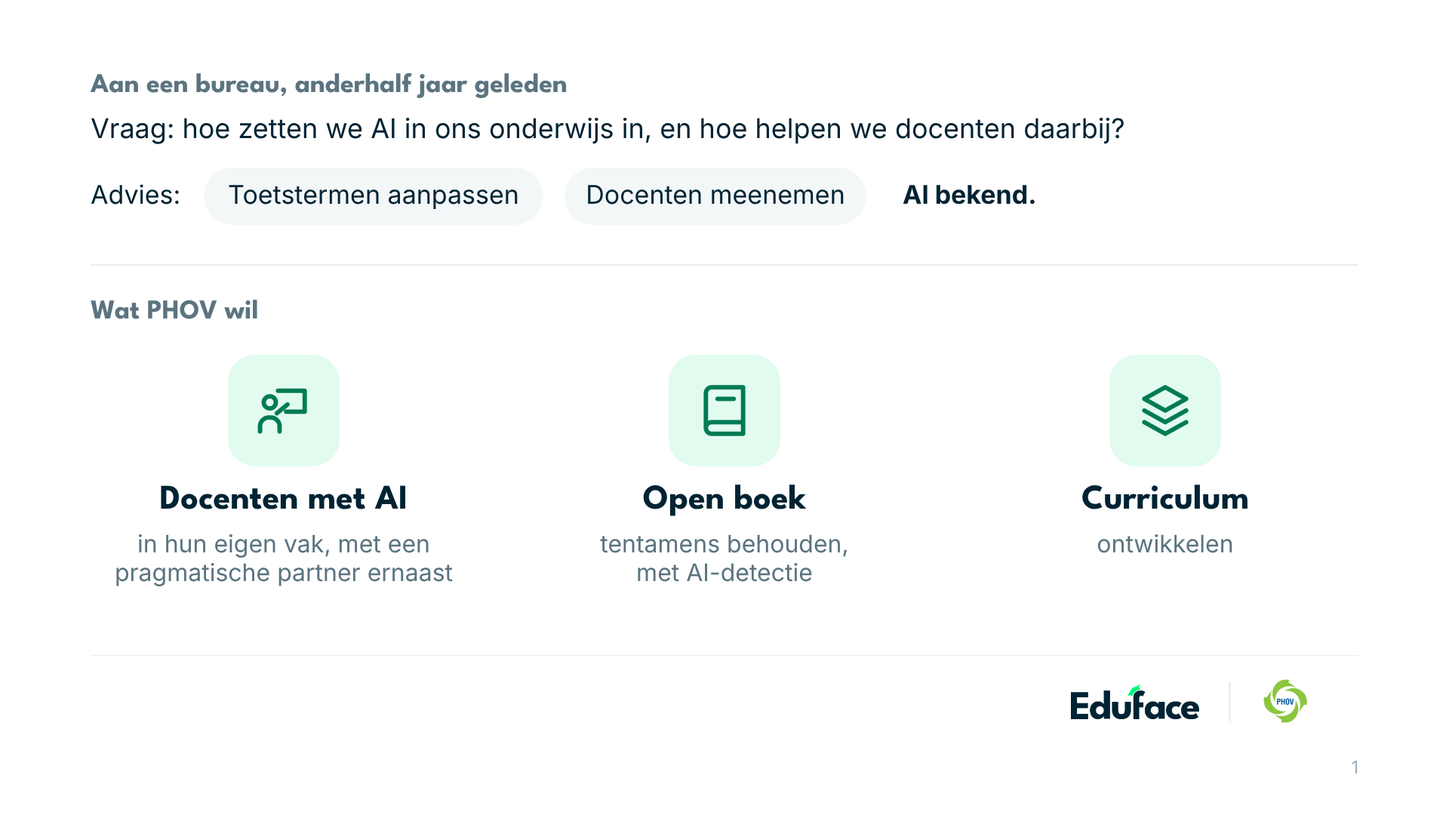
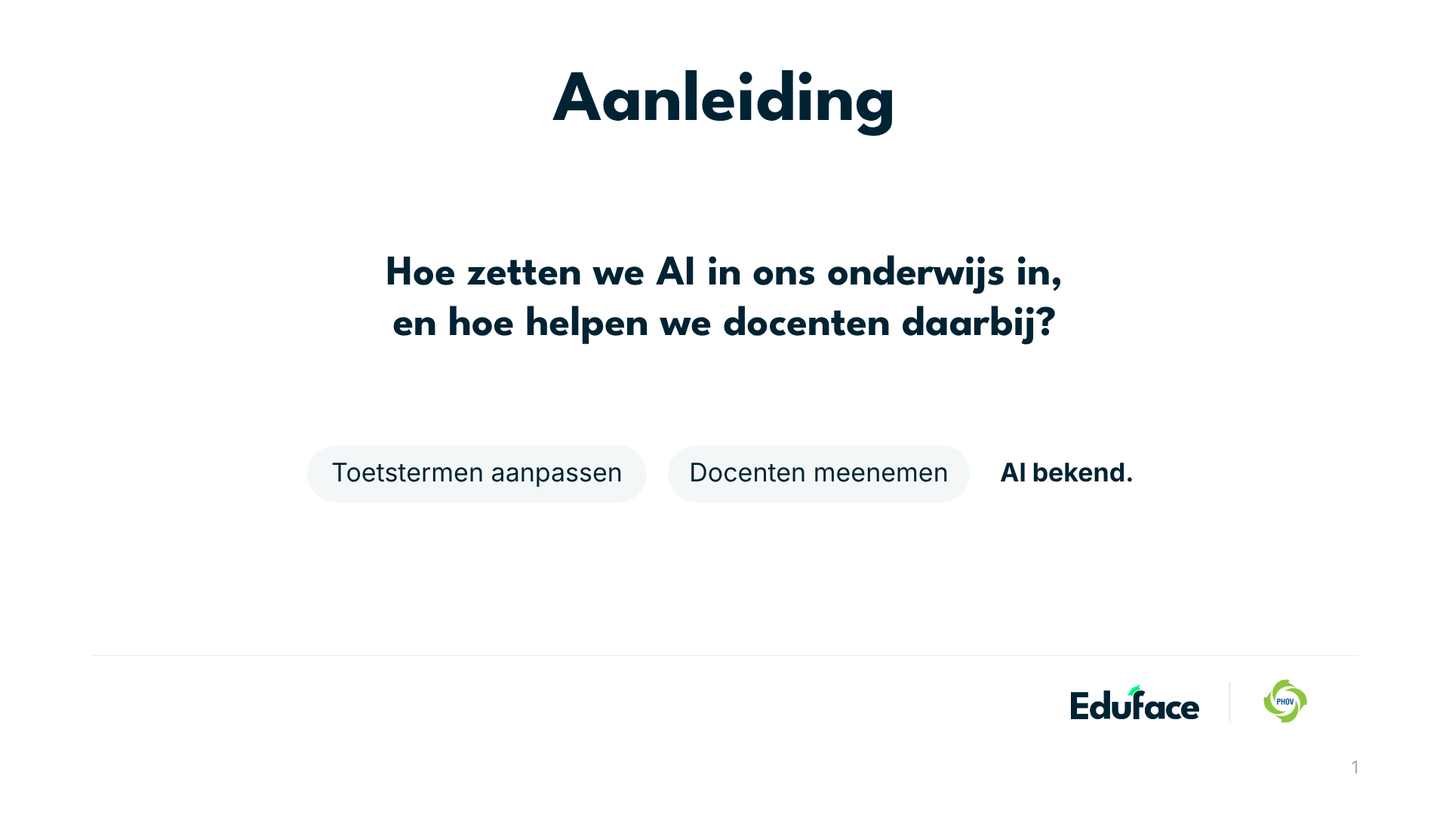
PHOV-deck: aanleiding en doel als twee slides, titels terug, minder tekst
Claude-Session: https://claude.ai/code/session_011t24oQakExxjssoBJFRTe8

diff --git a/GTM/Accounts/phov/deck/preview/03-nu.html b/GTM/Accounts/phov/deck/preview/03-nu.html
@@ -1,0 +1,1 @@
+<!DOCTYPE html><html lang="nl"><head><meta charset="utf-8"><link href="https://fonts.googleapis.com/css2?family=League+Spartan:wght@400;600;700;800&family=Inter:wght@400;500;600;700&display=swap" rel="stylesheet"><style>*{margin:0;padding:0;box-sizing:border-box}html,body{background:#fff}.slide{position:relative;width:1920px;height:1080px;overflow:hidden;background:#fff}</style></head><body><div class="slide"><div style="position:absolute;left:120.0px;top:88.0px;width:1680.0px;height:120.0px;font-family:'League Spartan',sans-serif;font-size:96px;font-weight:700;color:#002333;text-align:center;line-height:1.0;white-space:pre-line">Huidige situatie</div><div style="position:absolute;left:120.0px;top:236.0px;width:600.0px;height:40.0px;font-family:'League Spartan',sans-serif;font-size:36px;font-weight:700;color:#5B7480;text-align:left;line-height:1.0;white-space:pre-line">Tentamens</div><div style="position:absolute;left:230.0px;top:340.0px;width:876.0px;height:4.0px;background:#E7EEF0;border-radius:0.0px"></div><div style="position:absolute;left:160.0px;top:288.0px;width:140.0px;height:108.0px;background:#FFFFFF;border-radius:0.0px"></div><div style="position:absolute;left:182.0px;top:294.0px;width:96.0px;height:96.0px;background:#F3F7F8;border-radius:23.3px"></div><img src="../assets/icon-pen-navy.png" style="position:absolute;left:206.0px;top:318.0px;width:48.0px;height:48.0px;object-fit:contain"><div style="position:absolute;left:84.0px;top:404.0px;width:292.0px;height:40.0px;font-family:'League Spartan',sans-serif;font-size:34px;font-weight:700;color:#002333;text-align:center;line-height:1.0;white-space:pre-line">Student</div><div style="position:absolute;left:60.0px;top:446.0px;width:340.0px;height:90.0px;font-family:'Inter',sans-serif;font-size:32px;font-weight:400;color:#5B7480;text-align:center;line-height:1.2;white-space:pre-line">maakt toets</div><div style="position:absolute;left:452.0px;top:288.0px;width:140.0px;height:108.0px;background:#FFFFFF;border-radius:0.0px"></div><div style="position:absolute;left:474.0px;top:294.0px;width:96.0px;height:96.0px;background:#F3F7F8;border-radius:23.3px"></div><img src="../assets/icon-cijfers-navy.png" style="position:absolute;left:498.0px;top:318.0px;width:48.0px;height:48.0px;object-fit:contain"><div style="position:absolute;left:376.0px;top:404.0px;width:292.0px;height:40.0px;font-family:'League Spartan',sans-serif;font-size:34px;font-weight:700;color:#002333;text-align:center;line-height:1.0;white-space:pre-line">Docent</div><div style="position:absolute;left:352.0px;top:446.0px;width:340.0px;height:90.0px;font-family:'Inter',sans-serif;font-size:32px;font-weight:400;color:#5B7480;text-align:center;line-height:1.2;white-space:pre-line">punten, feedback</div><div style="position:absolute;left:744.0px;top:288.0px;width:140.0px;height:108.0px;background:#FFFFFF;border-radius:0.0px"></div><div style="position:absolute;left:766.0px;top:294.0px;width:96.0px;height:96.0px;background:#F3F7F8;border-radius:23.3px"></div><img src="../assets/icon-usercheck-navy.png" style="position:absolute;left:790.0px;top:318.0px;width:48.0px;height:48.0px;object-fit:contain"><div style="position:absolute;left:668.0px;top:404.0px;width:292.0px;height:40.0px;font-family:'League Spartan',sans-serif;font-size:34px;font-weight:700;color:#002333;text-align:center;line-height:1.0;white-space:pre-line">Moduleleider</div><div style="position:absolute;left:644.0px;top:446.0px;width:340.0px;height:90.0px;font-family:'Inter',sans-serif;font-size:32px;font-weight:400;color:#5B7480;text-align:center;line-height:1.2;white-space:pre-line">stelt cijfer vast</div><div style="position:absolute;left:1036.0px;top:288.0px;width:140.0px;height:108.0px;background:#FFFFFF;border-radius:0.0px"></div><div style="position:absolute;left:1058.0px;top:294.0px;width:96.0px;height:96.0px;background:#F3F7F8;border-radius:23.3px"></div><img src="../assets/icon-data-navy.png" style="position:absolute;left:1082.0px;top:318.0px;width:48.0px;height:48.0px;object-fit:contain"><div style="position:absolute;left:960.0px;top:404.0px;width:292.0px;height:40.0px;font-family:'League Spartan',sans-serif;font-size:34px;font-weight:700;color:#002333;text-align:center;line-height:1.0;white-space:pre-line">Cursusbureau</div><div style="position:absolute;left:936.0px;top:446.0px;width:340.0px;height:90.0px;font-family:'Inter',sans-serif;font-size:32px;font-weight:400;color:#5B7480;text-align:center;line-height:1.2;white-space:pre-line">krijgt eindcijfer</div><div style="position:absolute;left:120.0px;top:570.0px;width:600.0px;height:40.0px;font-family:'League Spartan',sans-serif;font-size:36px;font-weight:700;color:#5B7480;text-align:left;line-height:1.0;white-space:pre-line">Schrijfopdrachten</div><div style="position:absolute;left:230.0px;top:674.0px;width:1460.0px;height:4.0px;background:#E7EEF0;border-radius:0.0px"></div><div style="position:absolute;left:160.0px;top:622.0px;width:140.0px;height:108.0px;background:#FFFFFF;border-radius:0.0px"></div><div style="position:absolute;left:182.0px;top:628.0px;width:96.0px;height:96.0px;background:#F3F7F8;border-radius:23.3px"></div><img src="../assets/icon-inleveren-navy.png" style="position:absolute;left:206.0px;top:652.0px;width:48.0px;height:48.0px;object-fit:contain"><div style="position:absolute;left:84.0px;top:738.0px;width:292.0px;height:40.0px;font-family:'League Spartan',sans-serif;font-size:34px;font-weight:700;color:#002333;text-align:center;line-height:1.0;white-space:pre-line">Student</div><div style="position:absolute;left:60.0px;top:780.0px;width:340.0px;height:90.0px;font-family:'Inter',sans-serif;font-size:32px;font-weight:400;color:#5B7480;text-align:center;line-height:1.2;white-space:pre-line">levert in</div><div style="position:absolute;left:452.0px;top:622.0px;width:140.0px;height:108.0px;background:#FFFFFF;border-radius:0.0px"></div><div style="position:absolute;left:474.0px;top:628.0px;width:96.0px;height:96.0px;background:#F3F7F8;border-radius:23.3px"></div><img src="../assets/icon-filepen-navy.png" style="position:absolute;left:498.0px;top:652.0px;width:48.0px;height:48.0px;object-fit:contain"><div style="position:absolute;left:376.0px;top:738.0px;width:292.0px;height:40.0px;font-family:'League Spartan',sans-serif;font-size:34px;font-weight:700;color:#002333;text-align:center;line-height:1.0;white-space:pre-line">Docent</div><div style="position:absolute;left:352.0px;top:780.0px;width:340.0px;height:90.0px;font-family:'Inter',sans-serif;font-size:32px;font-weight:400;color:#5B7480;text-align:center;line-height:1.2;white-space:pre-line">wisselend format</div><div style="position:absolute;left:744.0px;top:622.0px;width:140.0px;height:108.0px;background:#FFFFFF;border-radius:0.0px"></div><div style="position:absolute;left:766.0px;top:628.0px;width:96.0px;height:96.0px;background:#F3F7F8;border-radius:23.3px"></div><img src="../assets/icon-aftekenen-navy.png" style="position:absolute;left:790.0px;top:652.0px;width:48.0px;height:48.0px;object-fit:contain"><div style="position:absolute;left:668.0px;top:738.0px;width:292.0px;height:40.0px;font-family:'League Spartan',sans-serif;font-size:34px;font-weight:700;color:#002333;text-align:center;line-height:1.0;white-space:pre-line">Cijfer</div><div style="position:absolute;left:644.0px;top:780.0px;width:340.0px;height:90.0px;font-family:'Inter',sans-serif;font-size:32px;font-weight:400;color:#5B7480;text-align:center;line-height:1.2;white-space:pre-line">vastgesteld</div><div style="position:absolute;left:1036.0px;top:622.0px;width:140.0px;height:108.0px;background:#FFFFFF;border-radius:0.0px"></div><div style="position:absolute;left:1058.0px;top:628.0px;width:96.0px;height:96.0px;background:#F3F7F8;border-radius:23.3px"></div><img src="../assets/icon-check-navy.png" style="position:absolute;left:1082.0px;top:652.0px;width:48.0px;height:48.0px;object-fit:contain"><div style="position:absolute;left:960.0px;top:738.0px;width:292.0px;height:40.0px;font-family:'League Spartan',sans-serif;font-size:34px;font-weight:700;color:#002333;text-align:center;line-height:1.0;white-space:pre-line">Cursusbureau</div><div style="position:absolute;left:936.0px;top:780.0px;width:340.0px;height:90.0px;font-family:'Inter',sans-serif;font-size:32px;font-weight:400;color:#5B7480;text-align:center;line-height:1.2;white-space:pre-line">checkt taal</div><div style="position:absolute;left:1328.0px;top:622.0px;width:140.0px;height:108.0px;background:#FFFFFF;border-radius:0.0px"></div><div style="position:absolute;left:1350.0px;top:628.0px;width:96.0px;height:96.0px;background:#F3F7F8;border-radius:23.3px"></div><img src="../assets/icon-mail-navy.png" style="position:absolute;left:1374.0px;top:652.0px;width:48.0px;height:48.0px;object-fit:contain"><div style="position:absolute;left:1252.0px;top:738.0px;width:292.0px;height:40.0px;font-family:'League Spartan',sans-serif;font-size:34px;font-weight:700;color:#002333;text-align:center;line-height:1.0;white-space:pre-line">Secretariaat</div><div style="position:absolute;left:1228.0px;top:780.0px;width:340.0px;height:90.0px;font-family:'Inter',sans-serif;font-size:32px;font-weight:400;color:#5B7480;text-align:center;line-height:1.2;white-space:pre-line">zet het open</div><div style="position:absolute;left:1620.0px;top:622.0px;width:140.0px;height:108.0px;background:#FFFFFF;border-radius:0.0px"></div><div style="position:absolute;left:1642.0px;top:628.0px;width:96.0px;height:96.0px;background:#F3F7F8;border-radius:23.3px"></div><img src="../assets/icon-studenten-navy.png" style="position:absolute;left:1666.0px;top:652.0px;width:48.0px;height:48.0px;object-fit:contain"><div style="position:absolute;left:1544.0px;top:738.0px;width:292.0px;height:40.0px;font-family:'League Spartan',sans-serif;font-size:34px;font-weight:700;color:#002333;text-align:center;line-height:1.0;white-space:pre-line">Student</div><div style="position:absolute;left:1520.0px;top:780.0px;width:340.0px;height:90.0px;font-family:'Inter',sans-serif;font-size:32px;font-weight:400;color:#5B7480;text-align:center;line-height:1.2;white-space:pre-line">ziet resultaat</div><div style="position:absolute;left:120.0px;top:868.0px;width:1680.0px;height:1.0px;background:#E7EEF0;border-radius:0.0px"></div><img src="../assets/logo_navy.png" style="position:absolute;left:1419.0px;top:907.0px;width:170.0px;height:46.0px;object-fit:contain"><div style="position:absolute;left:1629.0px;top:904.0px;width:1.0px;height:52.0px;background:#CDD9DE;border-radius:0.0px"></div><img src="../assets/klant.png" style="position:absolute;left:1670.0px;top:898.0px;width:64.0px;height:64.0px;object-fit:contain"><div style="position:absolute;left:1700.0px;top:1004.0px;width:100.0px;height:36.0px;font-family:'Inter',sans-serif;font-size:23px;font-weight:400;color:#9AAFB8;text-align:right;line-height:1.15;white-space:pre-line">3</div></div></body></html>

diff --git a/GTM/Accounts/phov/deck/preview/01-aanleiding.html b/GTM/Accounts/phov/deck/preview/01-aanleiding.html
@@ -1,3 +1,2 @@
-<!DOCTYPE html><html lang="nl"><head><meta charset="utf-8"><link href="https://fonts.googleapis.com/css2?family=League+Spartan:wght@400;600;700;800&family=Inter:wght@400;500;600;700&display=swap" rel="stylesheet"><style>*{margin:0;padding:0;box-sizing:border-box}html,body{background:#fff}.slide{position:relative;width:1920px;height:1080px;overflow:hidden;background:#fff}</style></head><body><div class="slide"><div style="position:absolute;left:120.0px;top:96.0px;width:1400.0px;height:40.0px;font-family:'League Spartan',sans-serif;font-size:36px;font-weight:700;color:#5B7480;text-align:left;line-height:1.0;white-space:pre-line">Aan een bureau, anderhalf jaar geleden</div><div style="position:absolute;left:120.0px;top:152.0px;width:1680.0px;height:46.0px;font-family:'Inter',sans-serif;font-size:36px;font-weight:400;color:#002333;text-align:left;line-height:1.0;white-space:pre-line">Vraag: hoe zetten we AI in ons onderwijs in, en hoe helpen we docenten daarbij?</div><div style="position:absolute;left:120.0px;top:241.0px;width:160.0px;height:40.0px;font-family:'Inter',sans-serif;font-size:34px;font-weight:400;color:#002333;text-align:left;line-height:1.0;white-space:pre-line">Advies:</div><div style="position:absolute;left:270.0px;top:222.0px;width:450.0px;height:76.0px;background:#F3F7F8;border-radius:38.0px"></div><div style="position:absolute;left:270.0px;top:241.0px;width:450.0px;height:40.0px;font-family:'Inter',sans-serif;font-size:34px;font-weight:400;color:#002333;text-align:center;line-height:1.0;white-space:pre-line">Toetstermen aanpassen</div><div style="position:absolute;left:748.0px;top:222.0px;width:400.0px;height:76.0px;background:#F3F7F8;border-radius:38.0px"></div><div style="position:absolute;left:748.0px;top:241.0px;width:400.0px;height:40.0px;font-family:'Inter',sans-serif;font-size:34px;font-weight:400;color:#002333;text-align:center;line-height:1.0;white-space:pre-line">Docenten meenemen</div><div style="position:absolute;left:1196.0px;top:241.0px;width:400.0px;height:40.0px;font-family:'Inter',sans-serif;font-size:34px;font-weight:700;color:#002333;text-align:left;line-height:1.0;white-space:pre-line">Al bekend.</div><div style="position:absolute;left:120.0px;top:350.0px;width:1680.0px;height:2.0px;background:#E7EEF0;border-radius:0.0px"></div><div style="position:absolute;left:120.0px;top:396.0px;width:1200.0px;height:40.0px;font-family:'League Spartan',sans-serif;font-size:36px;font-weight:700;color:#5B7480;text-align:left;line-height:1.0;white-space:pre-line">Wat PHOV wil</div><div style="position:absolute;left:302.0px;top:470.0px;width:148.0px;height:148.0px;background:#E2FBEF;border-radius:36.0px"></div><img src="../assets/icon-lesgeven-green.png" style="position:absolute;left:339.0px;top:507.0px;width:74.0px;height:74.0px;object-fit:contain"><div style="position:absolute;left:90.0px;top:640.0px;width:572.0px;height:50.0px;font-family:'League Spartan',sans-serif;font-size:46px;font-weight:700;color:#002333;text-align:center;line-height:1.0;white-space:pre-line">Docenten met AI</div><div style="position:absolute;left:90.0px;top:702.0px;width:572.0px;height:90.0px;font-family:'Inter',sans-serif;font-size:32px;font-weight:400;color:#5B7480;text-align:center;line-height:1.2;white-space:pre-line">in hun eigen vak, met een
-pragmatische partner ernaast</div><div style="position:absolute;left:886.0px;top:470.0px;width:148.0px;height:148.0px;background:#E2FBEF;border-radius:36.0px"></div><img src="../assets/icon-boek-green.png" style="position:absolute;left:923.0px;top:507.0px;width:74.0px;height:74.0px;object-fit:contain"><div style="position:absolute;left:674.0px;top:640.0px;width:572.0px;height:50.0px;font-family:'League Spartan',sans-serif;font-size:46px;font-weight:700;color:#002333;text-align:center;line-height:1.0;white-space:pre-line">Open boek</div><div style="position:absolute;left:674.0px;top:702.0px;width:572.0px;height:90.0px;font-family:'Inter',sans-serif;font-size:32px;font-weight:400;color:#5B7480;text-align:center;line-height:1.2;white-space:pre-line">tentamens behouden,
-met AI-detectie</div><div style="position:absolute;left:1470.0px;top:470.0px;width:148.0px;height:148.0px;background:#E2FBEF;border-radius:36.0px"></div><img src="../assets/icon-lagen-green.png" style="position:absolute;left:1507.0px;top:507.0px;width:74.0px;height:74.0px;object-fit:contain"><div style="position:absolute;left:1258.0px;top:640.0px;width:572.0px;height:50.0px;font-family:'League Spartan',sans-serif;font-size:46px;font-weight:700;color:#002333;text-align:center;line-height:1.0;white-space:pre-line">Curriculum</div><div style="position:absolute;left:1258.0px;top:702.0px;width:572.0px;height:90.0px;font-family:'Inter',sans-serif;font-size:32px;font-weight:400;color:#5B7480;text-align:center;line-height:1.2;white-space:pre-line">ontwikkelen</div><div style="position:absolute;left:120.0px;top:868.0px;width:1680.0px;height:1.0px;background:#E7EEF0;border-radius:0.0px"></div><img src="../assets/logo_navy.png" style="position:absolute;left:1419.0px;top:907.0px;width:170.0px;height:46.0px;object-fit:contain"><div style="position:absolute;left:1629.0px;top:904.0px;width:1.0px;height:52.0px;background:#CDD9DE;border-radius:0.0px"></div><img src="../assets/klant.png" style="position:absolute;left:1670.0px;top:898.0px;width:64.0px;height:64.0px;object-fit:contain"><div style="position:absolute;left:1700.0px;top:1004.0px;width:100.0px;height:36.0px;font-family:'Inter',sans-serif;font-size:23px;font-weight:400;color:#9AAFB8;text-align:right;line-height:1.15;white-space:pre-line">1</div></div></body></html>
+<!DOCTYPE html><html lang="nl"><head><meta charset="utf-8"><link href="https://fonts.googleapis.com/css2?family=League+Spartan:wght@400;600;700;800&family=Inter:wght@400;500;600;700&display=swap" rel="stylesheet"><style>*{margin:0;padding:0;box-sizing:border-box}html,body{background:#fff}.slide{position:relative;width:1920px;height:1080px;overflow:hidden;background:#fff}</style></head><body><div class="slide"><div style="position:absolute;left:120.0px;top:88.0px;width:1680.0px;height:120.0px;font-family:'League Spartan',sans-serif;font-size:96px;font-weight:700;color:#002333;text-align:center;line-height:1.0;white-space:pre-line">Aanleiding</div><div style="position:absolute;left:120.0px;top:330.0px;width:1680.0px;height:140.0px;font-family:'League Spartan',sans-serif;font-size:56px;font-weight:700;color:#002333;text-align:center;line-height:1.2;white-space:pre-line">Hoe zetten we AI in ons onderwijs in,
+en hoe helpen we docenten daarbij?</div><div style="position:absolute;left:407.0px;top:590.0px;width:450.0px;height:76.0px;background:#F3F7F8;border-radius:38.0px"></div><div style="position:absolute;left:407.0px;top:609.0px;width:450.0px;height:40.0px;font-family:'Inter',sans-serif;font-size:34px;font-weight:400;color:#002333;text-align:center;line-height:1.0;white-space:pre-line">Toetstermen aanpassen</div><div style="position:absolute;left:885.0px;top:590.0px;width:400.0px;height:76.0px;background:#F3F7F8;border-radius:38.0px"></div><div style="position:absolute;left:885.0px;top:609.0px;width:400.0px;height:40.0px;font-family:'Inter',sans-serif;font-size:34px;font-weight:400;color:#002333;text-align:center;line-height:1.0;white-space:pre-line">Docenten meenemen</div><div style="position:absolute;left:1325.0px;top:609.0px;width:200.0px;height:40.0px;font-family:'Inter',sans-serif;font-size:34px;font-weight:700;color:#002333;text-align:left;line-height:1.0;white-space:pre-line">Al bekend.</div><div style="position:absolute;left:120.0px;top:868.0px;width:1680.0px;height:1.0px;background:#E7EEF0;border-radius:0.0px"></div><img src="../assets/logo_navy.png" style="position:absolute;left:1419.0px;top:907.0px;width:170.0px;height:46.0px;object-fit:contain"><div style="position:absolute;left:1629.0px;top:904.0px;width:1.0px;height:52.0px;background:#CDD9DE;border-radius:0.0px"></div><img src="../assets/klant.png" style="position:absolute;left:1670.0px;top:898.0px;width:64.0px;height:64.0px;object-fit:contain"><div style="position:absolute;left:1700.0px;top:1004.0px;width:100.0px;height:36.0px;font-family:'Inter',sans-serif;font-size:23px;font-weight:400;color:#9AAFB8;text-align:right;line-height:1.15;white-space:pre-line">1</div></div></body></html>

diff --git a/GTM/Accounts/phov/deck/preview/02-doel.html b/GTM/Accounts/phov/deck/preview/02-doel.html
@@ -1,0 +1,1 @@
+<!DOCTYPE html><html lang="nl"><head><meta charset="utf-8"><link href="https://fonts.googleapis.com/css2?family=League+Spartan:wght@400;600;700;800&family=Inter:wght@400;500;600;700&display=swap" rel="stylesheet"><style>*{margin:0;padding:0;box-sizing:border-box}html,body{background:#fff}.slide{position:relative;width:1920px;height:1080px;overflow:hidden;background:#fff}</style></head><body><div class="slide"><div style="position:absolute;left:120.0px;top:88.0px;width:1680.0px;height:120.0px;font-family:'League Spartan',sans-serif;font-size:96px;font-weight:700;color:#002333;text-align:center;line-height:1.0;white-space:pre-line">Doel</div><div style="position:absolute;left:286.0px;top:380.0px;width:180.0px;height:180.0px;background:#E2FBEF;border-radius:43.7px"></div><img src="../assets/icon-lesgeven-green.png" style="position:absolute;left:331.0px;top:425.0px;width:90.0px;height:90.0px;object-fit:contain"><div style="position:absolute;left:90.0px;top:600.0px;width:572.0px;height:60.0px;font-family:'League Spartan',sans-serif;font-size:52px;font-weight:700;color:#002333;text-align:center;line-height:1.0;white-space:pre-line">Docenten met AI</div><div style="position:absolute;left:870.0px;top:380.0px;width:180.0px;height:180.0px;background:#E2FBEF;border-radius:43.7px"></div><img src="../assets/icon-boek-green.png" style="position:absolute;left:915.0px;top:425.0px;width:90.0px;height:90.0px;object-fit:contain"><div style="position:absolute;left:674.0px;top:600.0px;width:572.0px;height:60.0px;font-family:'League Spartan',sans-serif;font-size:52px;font-weight:700;color:#002333;text-align:center;line-height:1.0;white-space:pre-line">Open boek</div><div style="position:absolute;left:1454.0px;top:380.0px;width:180.0px;height:180.0px;background:#E2FBEF;border-radius:43.7px"></div><img src="../assets/icon-lagen-green.png" style="position:absolute;left:1499.0px;top:425.0px;width:90.0px;height:90.0px;object-fit:contain"><div style="position:absolute;left:1258.0px;top:600.0px;width:572.0px;height:60.0px;font-family:'League Spartan',sans-serif;font-size:52px;font-weight:700;color:#002333;text-align:center;line-height:1.0;white-space:pre-line">Curriculum</div><div style="position:absolute;left:120.0px;top:868.0px;width:1680.0px;height:1.0px;background:#E7EEF0;border-radius:0.0px"></div><img src="../assets/logo_navy.png" style="position:absolute;left:1419.0px;top:907.0px;width:170.0px;height:46.0px;object-fit:contain"><div style="position:absolute;left:1629.0px;top:904.0px;width:1.0px;height:52.0px;background:#CDD9DE;border-radius:0.0px"></div><img src="../assets/klant.png" style="position:absolute;left:1670.0px;top:898.0px;width:64.0px;height:64.0px;object-fit:contain"><div style="position:absolute;left:1700.0px;top:1004.0px;width:100.0px;height:36.0px;font-family:'Inter',sans-serif;font-size:23px;font-weight:400;color:#9AAFB8;text-align:right;line-height:1.15;white-space:pre-line">2</div></div></body></html>

diff --git a/GTM/Accounts/phov/deck/build_deck.py b/GTM/Accounts/phov/deck/build_deck.py
@@ -15,81 +15,79 @@ from deckbuild import (rect, oval, pic, text, title, tile, foot, cols,
 S = []
 def add(naam, els, notes='', dark=False): S.append((naam, els, notes, dark))
 
+# Elke slide begint met een korte titel (Dante, 29-10-2026). Daaronder alleen
+# wat het publiek moet zien; wat Dante vertelt staat in de notities.
+
 # ---------------------------------------------------------------- 1 aanleiding
-# Geen kop. Boven het advies van het bureau, grijs, want dat wisten ze al.
-# Onder wat PHOV echt wilde, in groen: daar gaat de rest van het deck over.
-c3, w3 = cols(3)
-els = [text(M, 96, 1400, 40, 'Aan een bureau, anderhalf jaar geleden', font=HEAD,
-            size=36, bold=True, color=INK500, align='left', ls=1.0),
-       text(M, 152, 1680, 46, 'Vraag: hoe zetten we AI in ons onderwijs in, '
-            'en hoe helpen we docenten daarbij?', size=36, color=NAVY, align='left', ls=1.0)]
-# Advies in navy, net zo leesbaar als de rest. Het verschil met "Al bekend."
-# zit in het gewicht, niet in de kleur (core/regels.md).
-els += [text(M, 241, 160, 40, 'Advies:', size=34, color=NAVY, align='left', ls=1.0)]
-x = M + 150
-for lbl, w in [('Toetstermen aanpassen', 450), ('Docenten meenemen', 400)]:
-    els += [rect(x, 222, w, 76, INK50, r=38),
-            text(x, 241, w, 40, lbl, size=34, color=NAVY, ls=1.0)]
+# De vraag aan het bureau, en het advies dat ze al kenden. Advies in navy:
+# het verschil met "Al bekend." zit in het gewicht, niet in de kleur.
+els = title('Aanleiding')
+els += [text(M, 330, 1920 - 2 * M, 140, 'Hoe zetten we AI in ons onderwijs in,\n'
+             'en hoe helpen we docenten daarbij?', font=HEAD, size=56, bold=True, ls=1.2)]
+PILLEN = [('Toetstermen aanpassen', 450), ('Docenten meenemen', 400)]
+AB = 'Al bekend.'
+x = (1920 - (sum(w for _, w in PILLEN) + 28 * len(PILLEN) + 200)) / 2
+for lbl, w in PILLEN:
+    els += [rect(x, 590, w, 76, INK50, r=38),
+            text(x, 609, w, 40, lbl, size=34, color=NAVY, ls=1.0)]
     x += w + 28
-els += [text(x + 20, 241, 400, 40, 'Al bekend.', size=34, bold=True, color=NAVY,
-             align='left', ls=1.0),
-        rect(M, 350, 1920 - 2 * M, 2, INK100),
-        text(M, 396, 1200, 40, 'Wat PHOV wil', font=HEAD, size=36, bold=True,
-             color=INK500, align='left', ls=1.0)]
-for cx, (ic, kop, wat) in zip(c3, [
-        ('lesgeven', 'Docenten met AI', 'in hun eigen vak, met een\npragmatische partner ernaast'),
-        ('boek', 'Open boek', 'tentamens behouden,\nmet AI-detectie'),
-        ('lagen', 'Curriculum', 'ontwikkelen')]):
-    els += tile(cx, 470, ic, 'green')
-    els += [text(cx - w3 / 2 - 30, 640, w3 + 60, 50, kop, font=HEAD, size=46, bold=True, ls=1.0),
-            text(cx - w3 / 2 - 30, 702, w3 + 60, 90, wat, size=32, color=INK500, ls=1.2)]
+els += [text(x + 12, 609, 200, 40, AB, size=34, bold=True, color=NAVY, align='left', ls=1.0)]
 els += foot(page=1)
 add('01-aanleiding', els, notes="""Anderhalf jaar geleden heeft PHOV een bureau ingehuurd. De vraag was hoe ze AI in hun onderwijs kunnen inzetten en hoe ze docenten daarbij helpen.
-Het advies was "toetstermen aanpassen" en "docenten meenemen". Dat wisten ze al.
+Het advies was "toetstermen aanpassen" en "docenten meenemen". Dat wisten ze al.""")
 
-Wat ze wilden:
+# ---------------------------------------------------------------- 2 doel
+c3, w3 = cols(3)
+els = title('Doel')
+for cx, (ic, kop) in zip(c3, [('lesgeven', 'Docenten met AI'), ('boek', 'Open boek'),
+                              ('lagen', 'Curriculum')]):
+    els += tile(cx, 380, ic, 'green', 180)
+    els += [text(cx - w3 / 2 - 30, 600, w3 + 60, 60, kop, font=HEAD, size=52, bold=True, ls=1.0)]
+els += foot(page=2)
+add('02-doel', els, notes="""Wat ze wilden:
 1. Docenten die AI in hun vakgebied gebruiken, met een pragmatische partner ernaast
 2. Open-boek tentamens behouden (AI-detectie)
 3. Curriculumontwikkeling""")
 
-# ---------------------------------------------------------------- 2 huidige situatie
-# Geen kop: de twee stromen dragen de slide. Per stap wie en wat er gebeurt.
+# ---------------------------------------------------------------- 3 huidige situatie
+# Per stap wie en wat er gebeurt.
 # Zes kolommen, zodat moduleleider en "cijfer vastgesteld" recht onder elkaar
 # staan, net als de twee cursusbureaus. Alles neutraal: dit beschrijft, het
-# oordeel komt op slide 3.
+# oordeel komt op de probleemslide.
 c6, w6 = cols(6)
-TS = 112
+TS = 96
 
 def strook(y, label, stappen):
     out = [text(M, y, 600, 40, label, font=HEAD, size=36, bold=True, color=INK500,
                 align='left', ls=1.0)]
-    ty = y + 72
+    ty = y + 58
     out.append(rect(c6[0], ty + TS / 2 - 2, c6[len(stappen) - 1] - c6[0], 4, INK100))
     for cx, (ic, rol, wat) in zip(c6, stappen):
         out += [rect(cx - 70, ty - 6, 140, TS + 12, WHITE)]
         out += tile(cx, ty, ic, 'navy', TS)
-        out += [text(cx - 146, ty + TS + 16, 292, 40, rol, font=HEAD, size=34,
+        out += [text(cx - 146, ty + TS + 14, 292, 40, rol, font=HEAD, size=34,
                      bold=True, ls=1.0),
-                text(cx - 146, ty + TS + 62, 292, 120, wat, size=32, color=INK500,
+                text(cx - 170, ty + TS + 56, 340, 90, wat, size=32, color=INK500,
                      ls=1.2)]
     return out
 
-els = strook(96, 'Tentamens', [
-    ('pen', 'Student', 'maakt het\ntentamen'),
-    ('cijfers', 'Docent', 'geeft punten\nen feedback'),
-    ('usercheck', 'Moduleleider', 'controleert en\nstelt cijfer vast'),
-    ('data', 'Cursusbureau', 'ontvangt het\neindcijfer'),
+els = title('Huidige situatie')
+els += strook(236, 'Tentamens', [
+    ('pen', 'Student', 'maakt toets'),
+    ('cijfers', 'Docent', 'punten, feedback'),
+    ('usercheck', 'Moduleleider', 'stelt cijfer vast'),
+    ('data', 'Cursusbureau', 'krijgt eindcijfer'),
 ])
-els += strook(480, 'Schrijfopdrachten', [
-    ('inleveren', 'Student', 'levert in: solo,\nduo of groep'),
-    ('filepen', 'Docent', 'feedback in eigen\nformat, elke\nopdracht anders'),
-    ('aftekenen', 'Cijfer', 'wordt\nvastgesteld'),
-    ('check', 'Cursusbureau', 'checkt taal en\nrariteiten'),
+els += strook(570, 'Schrijfopdrachten', [
+    ('inleveren', 'Student', 'levert in'),
+    ('filepen', 'Docent', 'wisselend format'),
+    ('aftekenen', 'Cijfer', 'vastgesteld'),
+    ('check', 'Cursusbureau', 'checkt taal'),
     ('mail', 'Secretariaat', 'zet het open'),
-    ('studenten', 'Student', 'ziet cijfer\nen feedback'),
+    ('studenten', 'Student', 'ziet resultaat'),
 ])
-els += foot(page=2)
-add('02-nu', els, notes="""Tentamens
+els += foot(page=3)
+add('03-nu', els, notes="""Tentamens
 1. Studenten maken het tentamen
 2. Het antwoord van de student gaat terug naar de docent, die punten en feedback geeft
 3. De moduleleider controleert en stelt het cijfer vast
